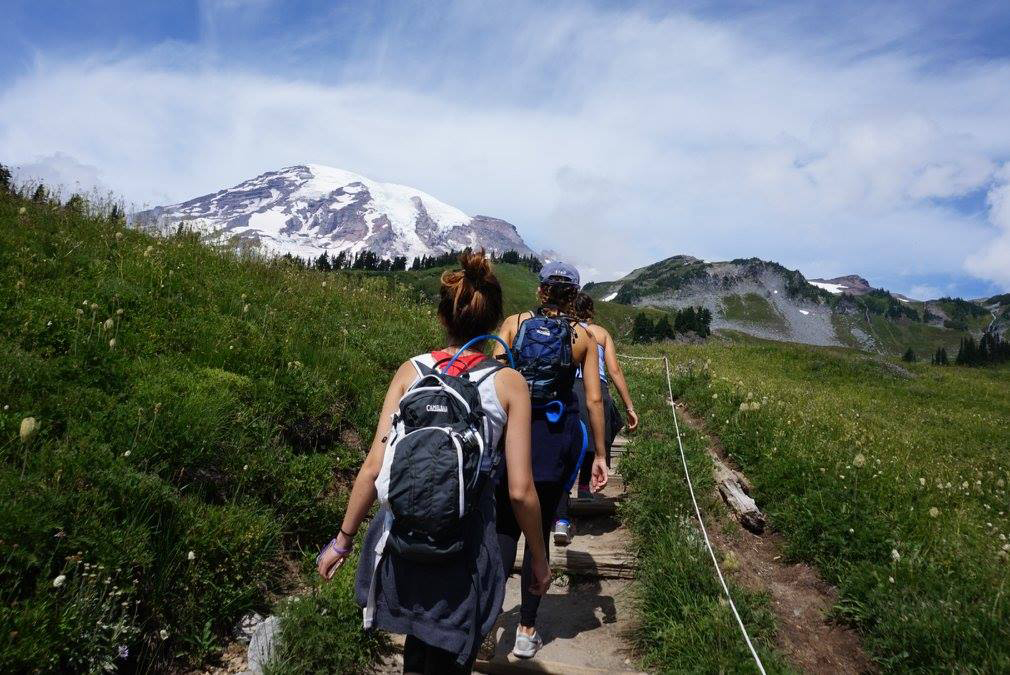
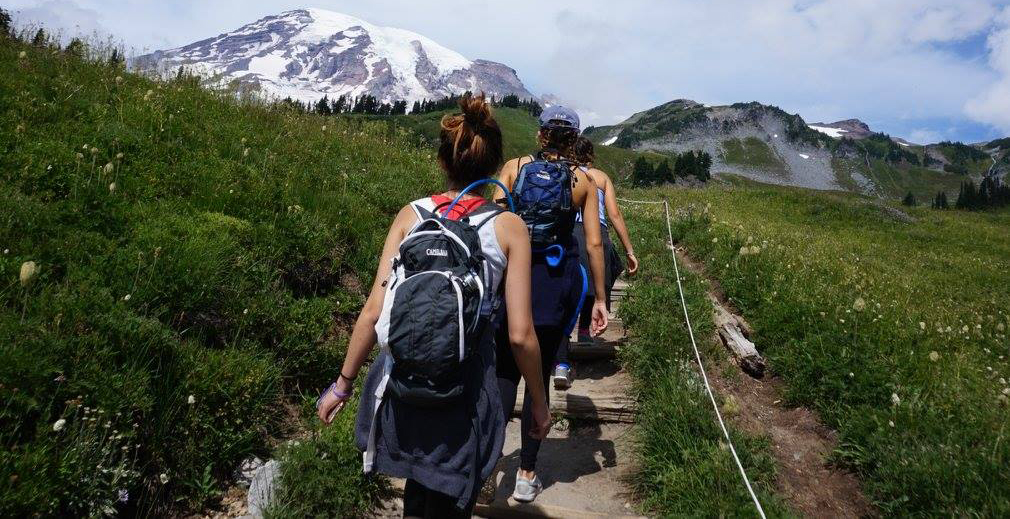
Finished rush schedule stuff

diff --git a/app/assets/stylesheets/_style.sass b/app/assets/stylesheets/_style.sass
@@ -121,7 +121,7 @@
         background-color: #f3f3f3
 
     .dates:nth-of-type(even)
-        background-color: #f9f9f9
+        background-color: $white
 
     .dates
         padding: 20px 0px
@@ -140,7 +140,7 @@
             li:nth-of-type(1)
                 font-size: 0.8em
                 font-weight: 600
-                font-family: $sans-serif
+                font-family: $oxygen
                 text-transform: uppercase
                 line-height: 10px
                 letter-spacing: 0.5px
@@ -149,7 +149,7 @@
             li:nth-of-type(2)
                 font-size: 1.4em
                 font-weight: 400
-                font-family: $sans-serif
+                font-family: $oxygen
                 text-transform: uppercase
                 letter-spacing: 0.5px
                 color: $blue
@@ -165,7 +165,7 @@
                 margin: (-3px) 0px 0px -1px
                 font-size: 1.7em
                 font-weight: 600
-                font-family: $sans-serif
+                font-family: $oxygen
                 text-transform: uppercase
                 letter-spacing: 0.5px
                 color: #202020
@@ -174,7 +174,7 @@
                 margin: 0px 0px 0px 0px
                 font-size: 0.8em
                 font-weight: 600
-                font-family: $sans-serif
+                font-family: $oxygen
                 text-transform: uppercase
                 letter-spacing: 0.5px
                 color: #333333
@@ -183,7 +183,7 @@
                 margin: 0px 0px 0px 3px
                 font-size: 0.8em
                 font-weight: 400
-                font-family: $sans-serif
+                font-family: $oxygen
                 line-height: 15px
                 letter-spacing: 0.5px
                 color: #6d6d6d
@@ -198,9 +198,14 @@
     display: block
     text-align: center
     overflow: hidden
-    background: image-url("about/contact_bg.png") repeat-x center center
-    border-bottom: 1px dotted #303030
 
+.rushcover
+    height: 10%
+    width: 940px
+    margin: 0 auto
+    clear: both
+    overflow: hidden
+    position: relative
 
 /** BROTHERS PAGE
 // ROSTER

diff --git a/app/assets/stylesheets/_foundation.sass b/app/assets/stylesheets/_foundation.sass
@@ -304,7 +304,7 @@ nav
 
 /** TITLE
 header
-    height: 100%
+    height: 50%
     width: 100%
     margin: 0 auto
     overflow: hidden
